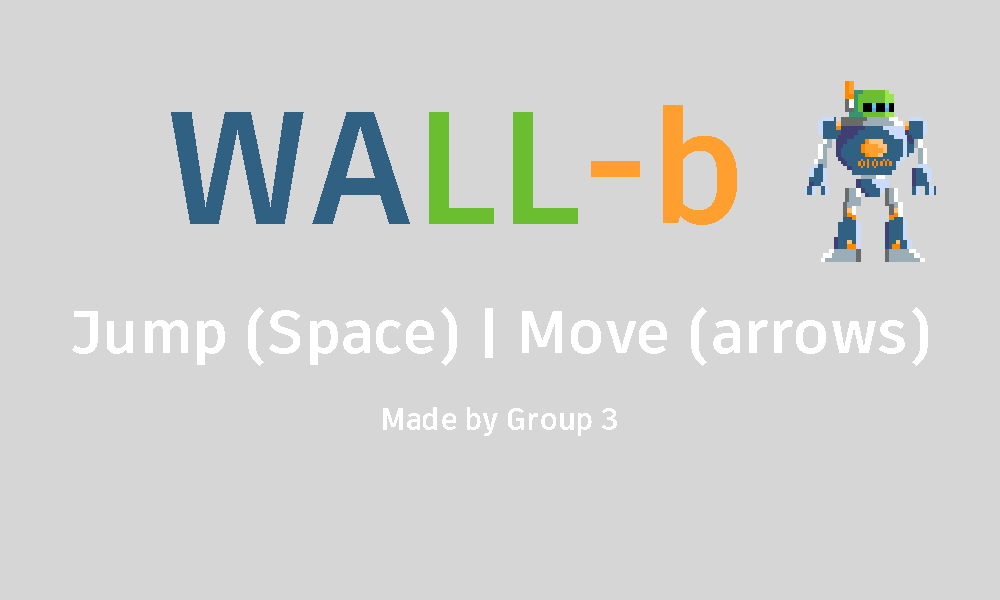
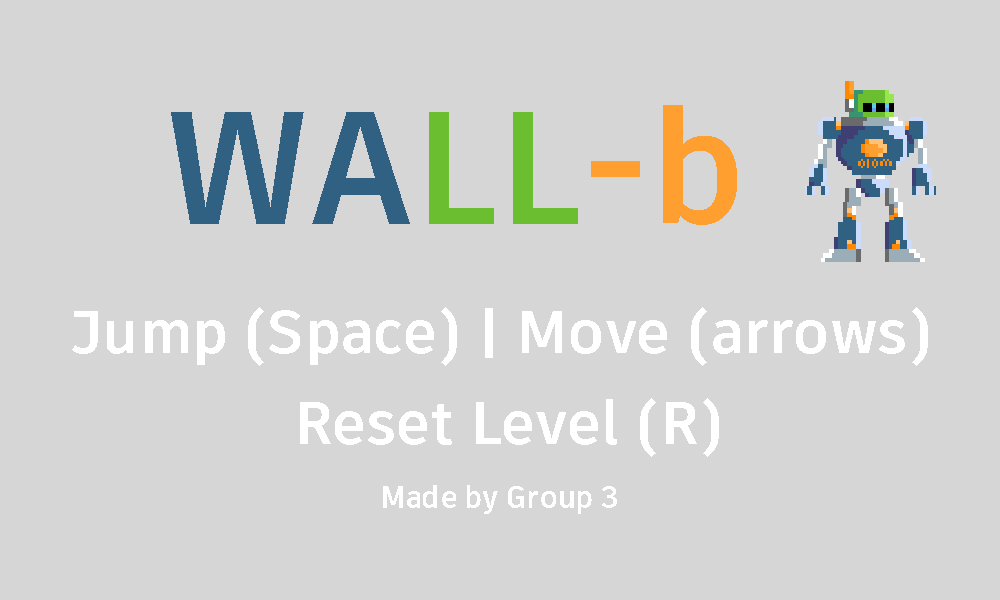
add reset functionality and fix menu glitch

Changed region(s): [[0.279, 0.66, 0.744, 0.75], [0.372, 0.81, 0.62, 0.87]]

diff --git a/src/scenes/CutScene1.js b/src/scenes/CutScene1.js
@@ -252,6 +252,7 @@ class CutScene1 extends Phaser.Scene {
         keyK = this.input.keyboard.addKey(Phaser.Input.Keyboard.KeyCodes.K);
         keyX = this.input.keyboard.addKey(Phaser.Input.Keyboard.KeyCodes.X);
         keyT = this.input.keyboard.addKey(Phaser.Input.Keyboard.KeyCodes.T);
+        keyR = this.input.keyboard.addKey(Phaser.Input.Keyboard.KeyCodes.R);
         keyQ = this.input.keyboard.addKey(Phaser.Input.Keyboard.KeyCodes.Q);
         
         this.JisDown = keyJ.isDown
@@ -308,6 +309,10 @@ class CutScene1 extends Phaser.Scene {
         if (Phaser.Input.Keyboard.JustDown(keyT)) {
             this.backgroundMusic.stop();
             this.scene.start("level1Scene");
+        }
+        if (Phaser.Input.Keyboard.JustDown(keyR)) {
+            this.backgroundMusic.stop();
+            this.scene.start("CutScene1");
         }
         if (Phaser.Input.Keyboard.JustDown(keyQ)) {
             console.log('x: ' + player.x + ", y: " + player.y)

diff --git a/src/scenes/Level1.js b/src/scenes/Level1.js
@@ -211,6 +211,7 @@ class Level1 extends Phaser.Scene {
         cursors = this.input.keyboard.createCursorKeys();
         keySPACE = this.input.keyboard.addKey(Phaser.Input.Keyboard.KeyCodes.SPACE);
         keyT = this.input.keyboard.addKey(Phaser.Input.Keyboard.KeyCodes.T);
+        keyR = this.input.keyboard.addKey(Phaser.Input.Keyboard.KeyCodes.R);
 
         // set bounds so the camera won't go outside the game world
         this.cameras.main.setBounds(0, 0, map.widthInPixels, map.heightInPixels);
@@ -239,6 +240,10 @@ class Level1 extends Phaser.Scene {
         if (Phaser.Input.Keyboard.JustDown(keyT)) {
             this.backgroundMusic.stop();
             this.scene.start("level2Scene");
+        }
+        if (Phaser.Input.Keyboard.JustDown(keyR)) {
+            this.backgroundMusic.stop();
+            this.scene.start("level1Scene");
         }
         if (cursors.left.isDown) {
             if(player == wallb){

diff --git a/src/scenes/Level3.js b/src/scenes/Level3.js
@@ -214,6 +214,7 @@ class Level3 extends Phaser.Scene {
         cursors = this.input.keyboard.createCursorKeys();
         keySPACE = this.input.keyboard.addKey(Phaser.Input.Keyboard.KeyCodes.SPACE);
         keyT = this.input.keyboard.addKey(Phaser.Input.Keyboard.KeyCodes.T);
+        keyR = this.input.keyboard.addKey(Phaser.Input.Keyboard.KeyCodes.R);
 
         // set bounds so the camera won't go outside the game world
         this.cameras.main.setBounds(0, 0, map.widthInPixels, map.heightInPixels);
@@ -241,6 +242,10 @@ class Level3 extends Phaser.Scene {
         if (Phaser.Input.Keyboard.JustDown(keyT)) {
             this.backgroundMusic.stop();
             this.scene.start("CutScene2");
+        }
+        if (Phaser.Input.Keyboard.JustDown(keyR)) {
+            this.backgroundMusic.stop();
+            this.scene.start("level3Scene");
         }
         if (cursors.left.isDown) {
             if(player == wallb){

diff --git a/src/scenes/Level2.js b/src/scenes/Level2.js
@@ -208,6 +208,7 @@ class Level2 extends Phaser.Scene {
 		cursors = this.input.keyboard.createCursorKeys();
 		keySPACE = this.input.keyboard.addKey(Phaser.Input.Keyboard.KeyCodes.SPACE);
 		keyT = this.input.keyboard.addKey(Phaser.Input.Keyboard.KeyCodes.T);
+		keyR = this.input.keyboard.addKey(Phaser.Input.Keyboard.KeyCodes.R);
 
 		// set bounds so the camera won't go outside the game world
 		this.cameras.main.setBounds(0, 0, map.widthInPixels, map.heightInPixels);
@@ -232,7 +233,11 @@ class Level2 extends Phaser.Scene {
 		if (Phaser.Input.Keyboard.JustDown(keyT)) {
 			this.backgroundMusic.stop();
             this.scene.start("level3Scene");
-        }	
+        }
+		if (Phaser.Input.Keyboard.JustDown(keyR)) {
+			this.backgroundMusic.stop();
+			this.scene.start("level2Scene");
+		}
 		if (cursors.left.isDown) {
 			if(player == wallb){
 				player.body.setVelocityX(-200); // move left

diff --git a/src/scenes/CutScene2.js b/src/scenes/CutScene2.js
@@ -234,6 +234,7 @@ class CutScene2 extends Phaser.Scene {
 		keyK = this.input.keyboard.addKey(Phaser.Input.Keyboard.KeyCodes.K);
 		keyX = this.input.keyboard.addKey(Phaser.Input.Keyboard.KeyCodes.X);
 		keyT = this.input.keyboard.addKey(Phaser.Input.Keyboard.KeyCodes.T);
+		keyR = this.input.keyboard.addKey(Phaser.Input.Keyboard.KeyCodes.R);
 		keyQ = this.input.keyboard.addKey(Phaser.Input.Keyboard.KeyCodes.Q);
 		
 		this.JisDown = keyJ.isDown
@@ -279,8 +280,10 @@ class CutScene2 extends Phaser.Scene {
 
 	update() {
 		if (Phaser.Input.Keyboard.JustDown(keyT)) {
-			this.backgroundMusic.stop();
 			this.scene.start("gameOverscene");
+		}
+		if (Phaser.Input.Keyboard.JustDown(keyR)) {
+			this.scene.start("CutScene2");
 		}
 		if (Phaser.Input.Keyboard.JustDown(keyQ)) {
 			console.log('x: ' + player.x + ", y: " + player.y)
